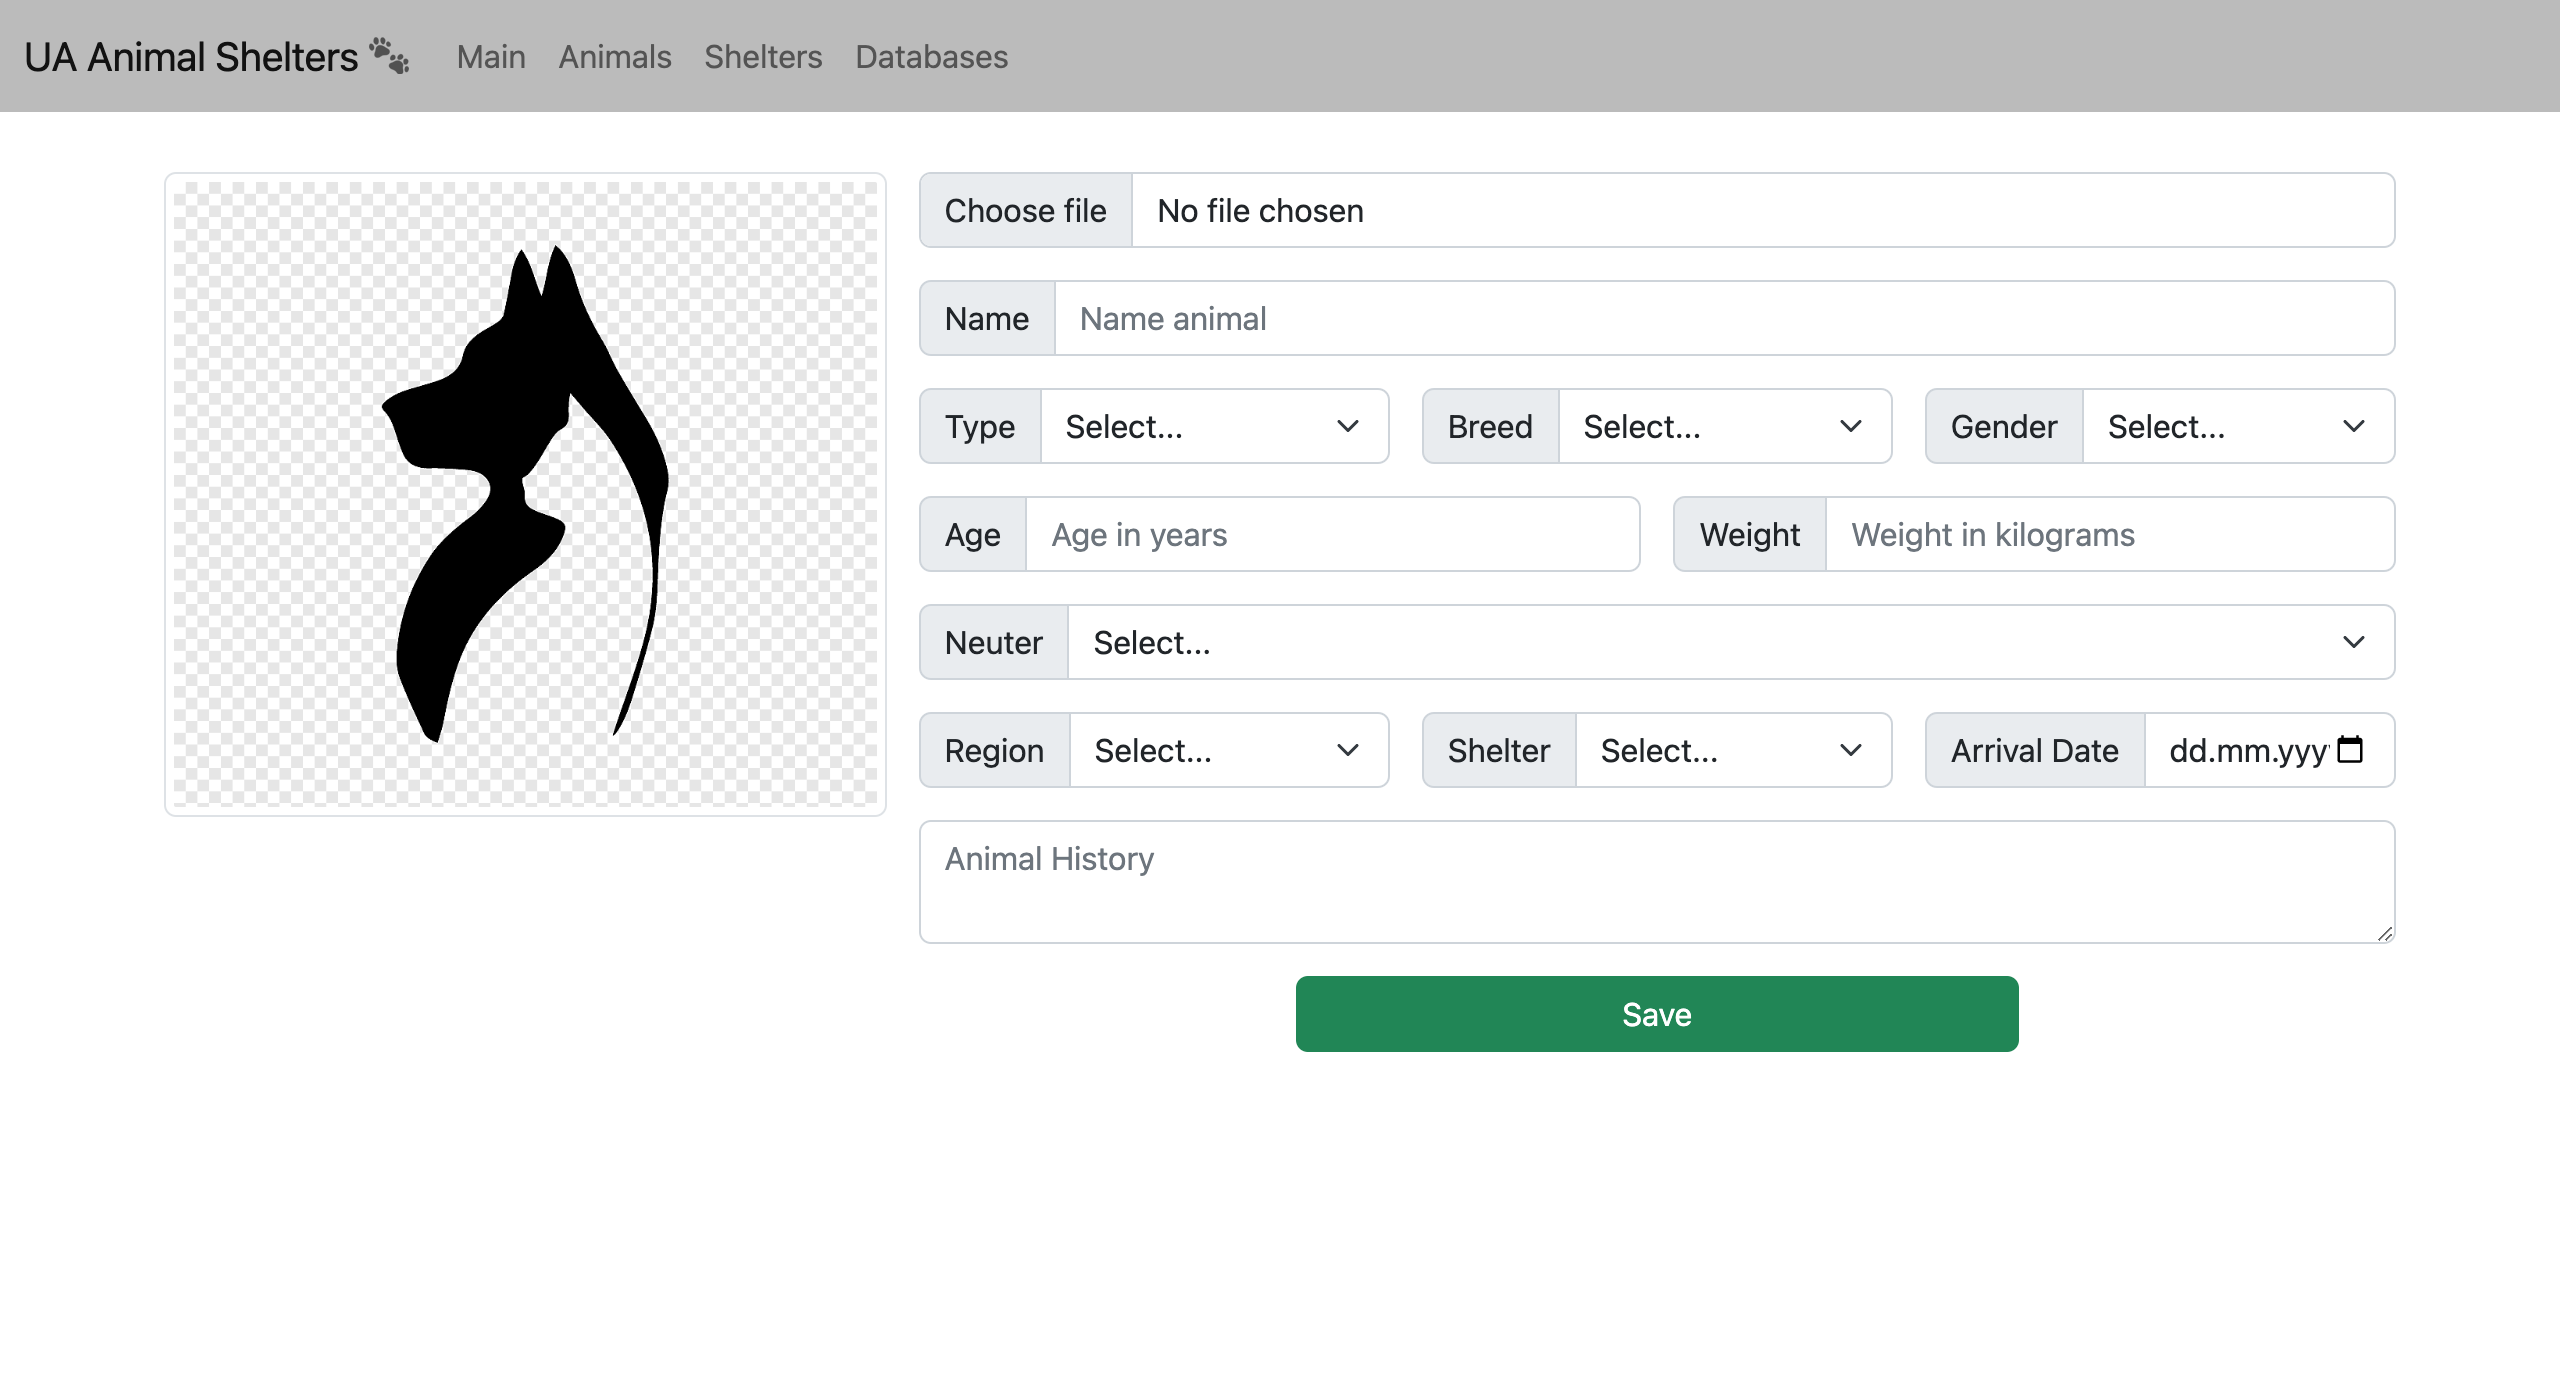
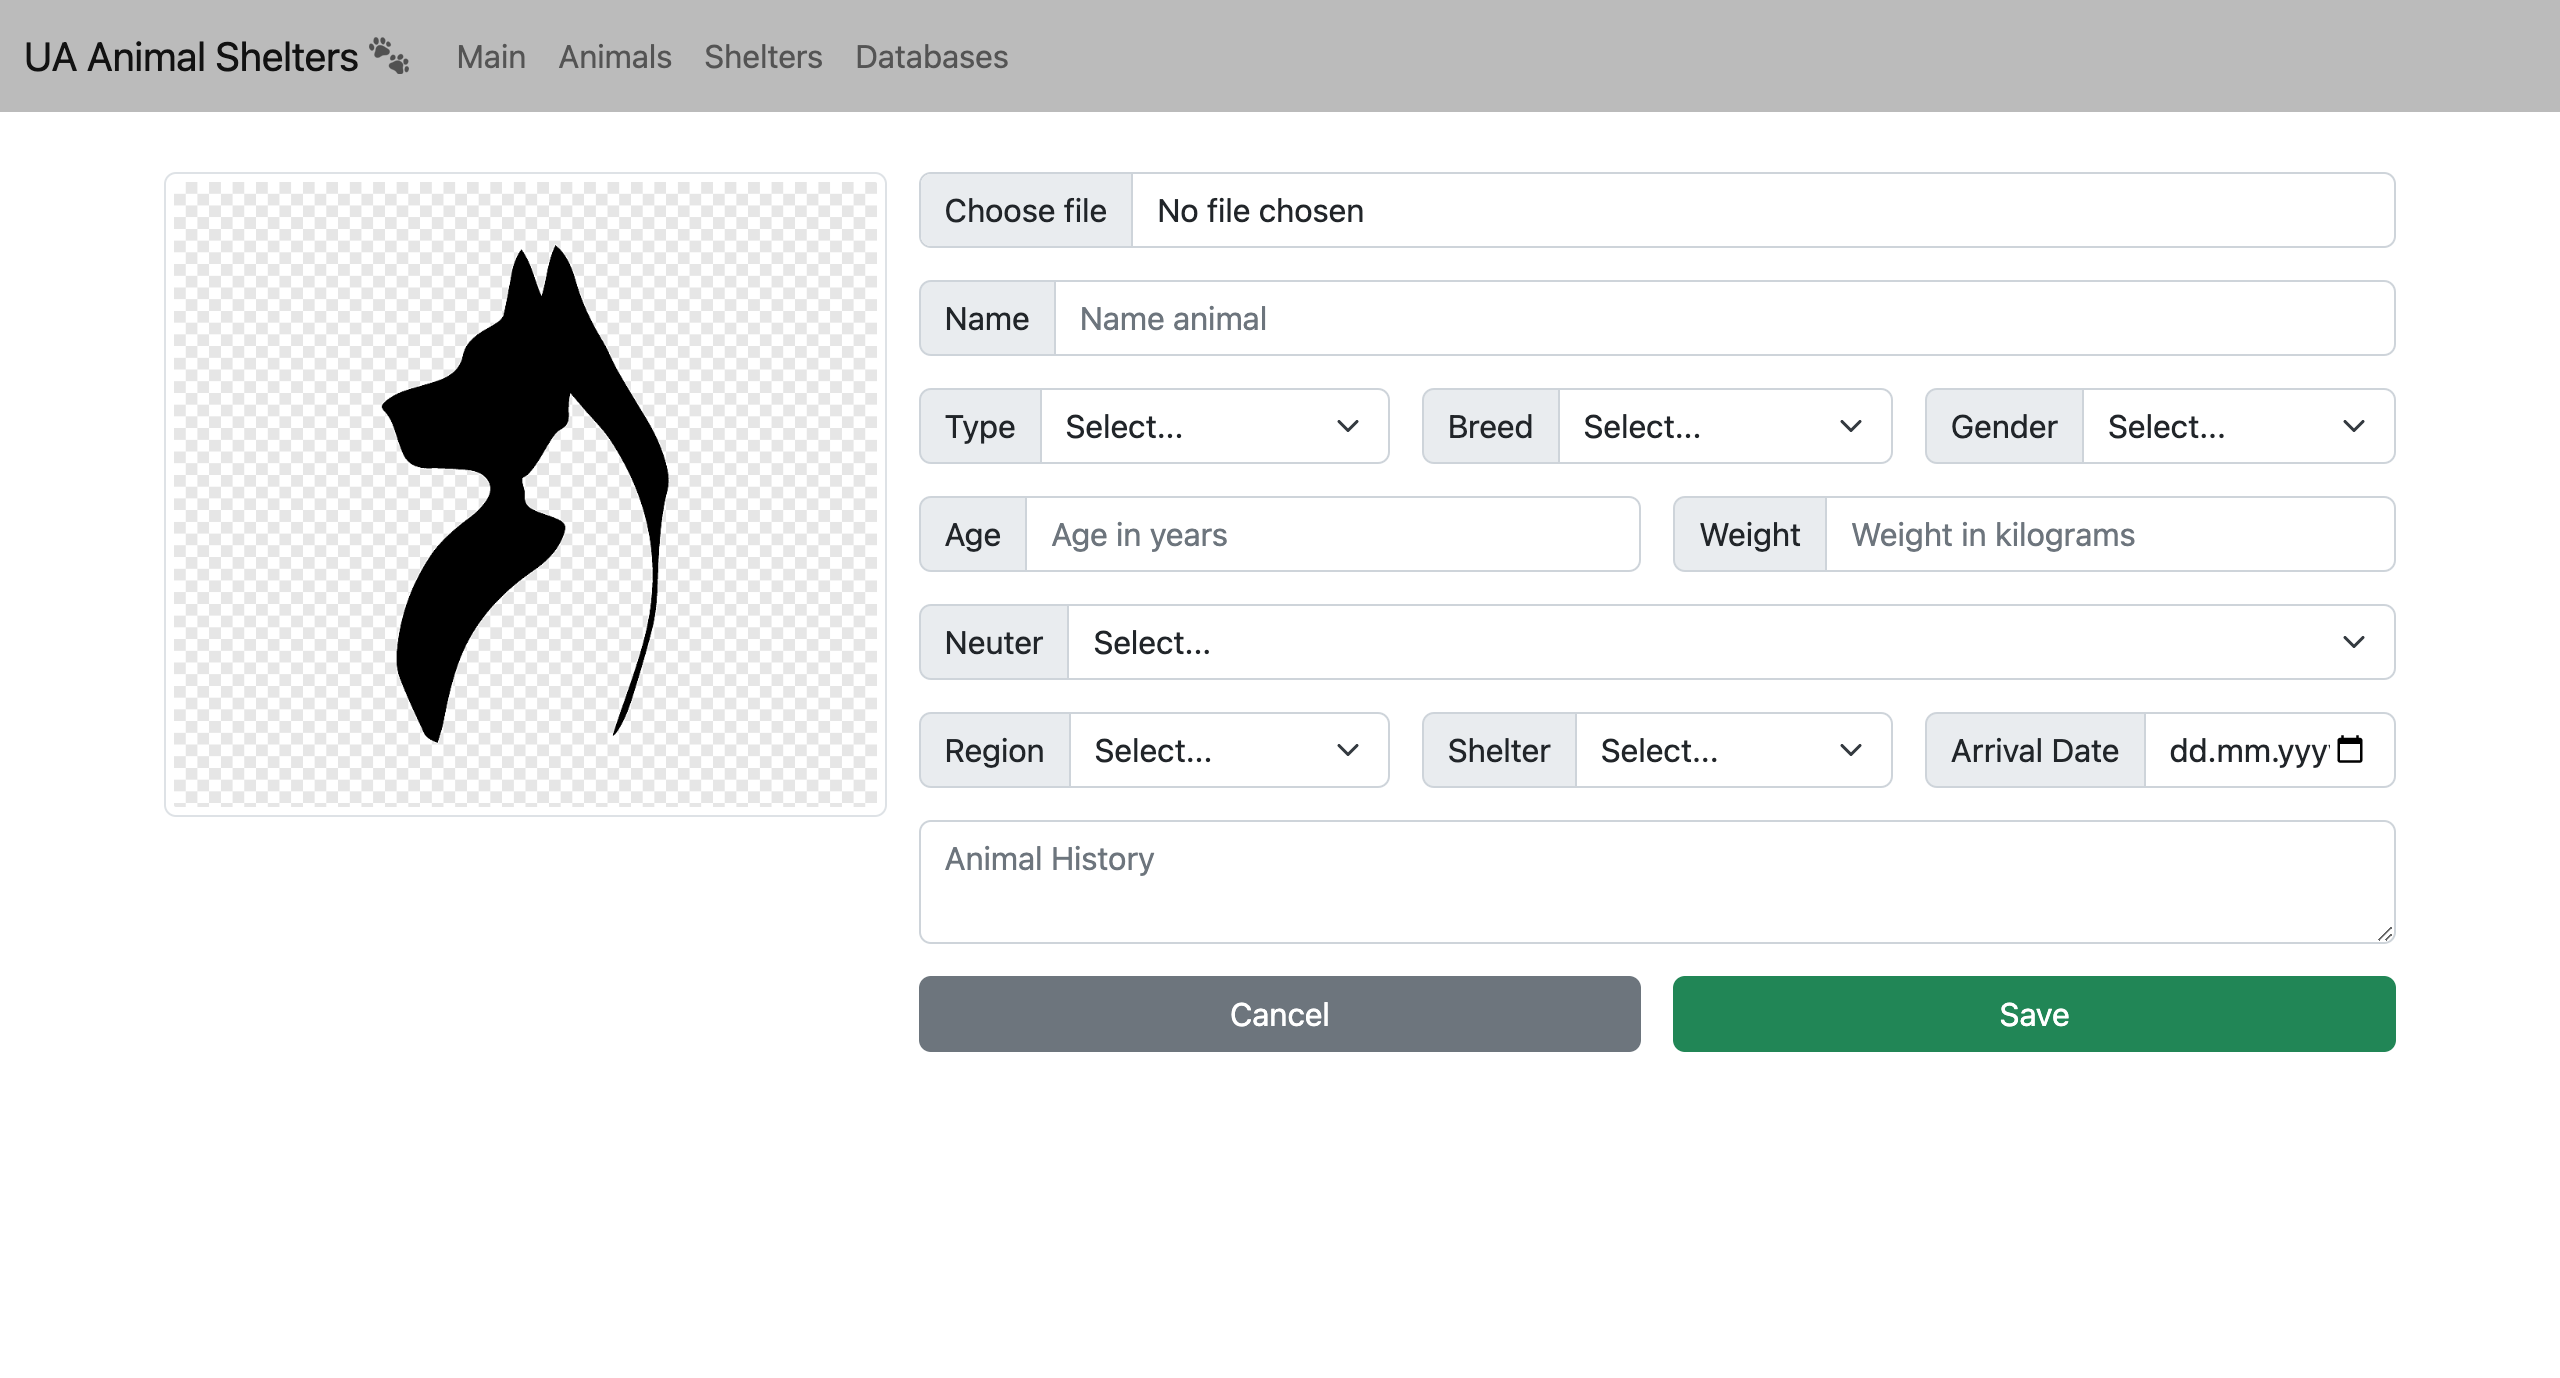
Minor changes

Changed region(s): [[0.3438, 0.6865, 0.6562, 0.7801], [0.7812, 0.6865, 0.9375, 0.7801]]

diff --git a/documentation/html_prototype/edit-shelter.html b/documentation/html_prototype/edit-shelter.html
@@ -92,6 +92,9 @@
               <input type="url" class="form-control" placeholder="https://example.com" required value='https://dreamlandadventures.com'>
             </div>
             <div class="d-grid col-6 mx-auto">
+              <button type="reset" class="btn btn-secondary">Cancel</button>
+            </div>
+            <div class="d-grid col-6 mx-auto">
               <button type="submit" class="btn btn-success">Save</button>
             </div>
           </form>

diff --git a/documentation/html_prototype/edit-animal.html b/documentation/html_prototype/edit-animal.html
@@ -136,6 +136,9 @@
               <textarea id="textarea-input" class="form-control" placeholder="Animal History">Was found on the street</textarea>
             </div>
             <div class="d-grid col-6 mx-auto">
+              <button type="reset" class="btn btn-secondary">Cancel</button>
+            </div>
+            <div class="d-grid col-6 mx-auto">
               <button type="submit" class="btn btn-success">Save</button>
             </div>
           </form>

diff --git a/documentation/html_prototype/add-animal.html b/documentation/html_prototype/add-animal.html
@@ -136,6 +136,9 @@
               <textarea id="textarea-input" class="form-control" placeholder="Animal History"></textarea>
             </div>
             <div class="d-grid col-6 mx-auto">
+              <button type="reset" class="btn btn-secondary">Cancel</button>
+            </div>
+            <div class="d-grid col-6 mx-auto">
               <button type="submit" class="btn btn-success">Save</button>
             </div>
           </form>

diff --git a/documentation/html_prototype/add-shelter.html b/documentation/html_prototype/add-shelter.html
@@ -92,6 +92,9 @@
               <input type="url" class="form-control" placeholder="https://example.com" required>
             </div>
             <div class="d-grid col-6 mx-auto">
+              <button type="reset" class="btn btn-secondary">Cancel</button>
+            </div>
+            <div class="d-grid col-6 mx-auto">
               <button type="submit" class="btn btn-success">Save</button>
             </div>
           </form>
